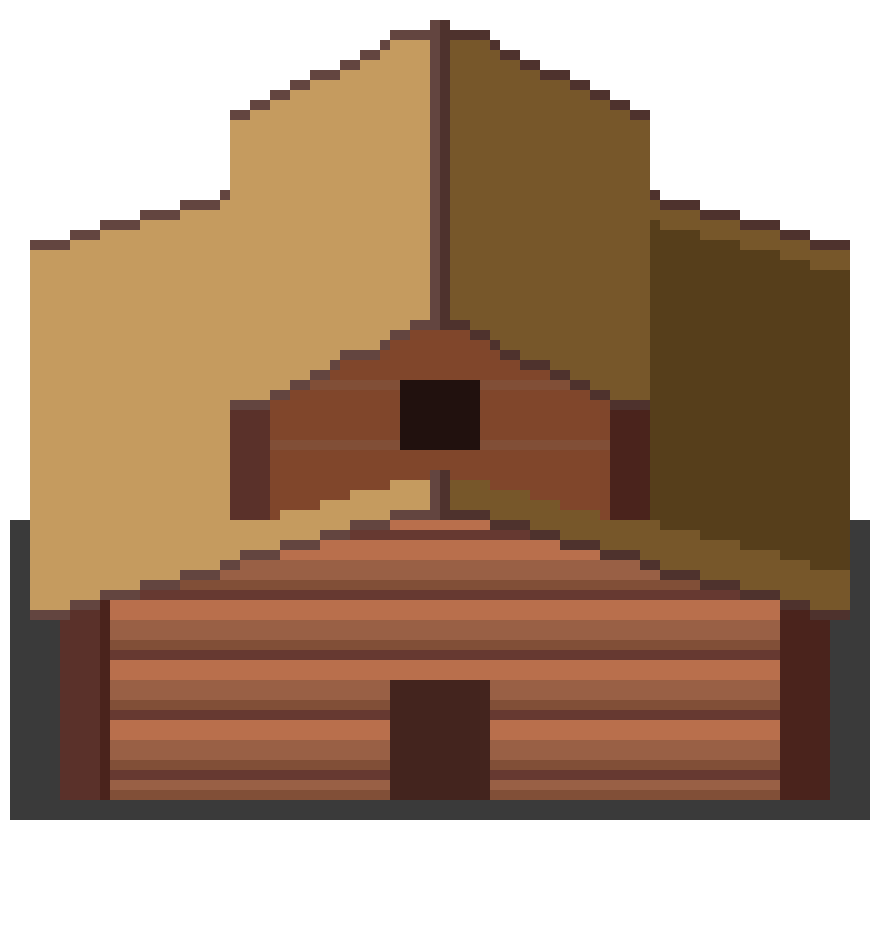
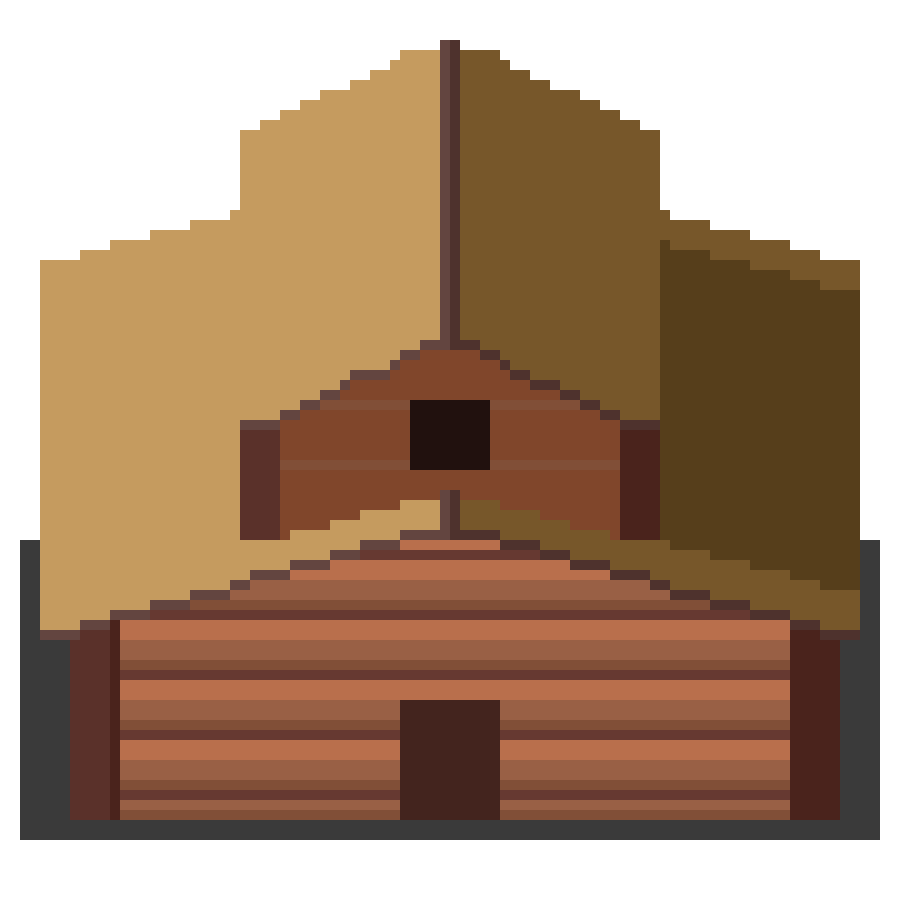
nvbnvn

diff --git a/src/GamePanel.java b/src/GamePanel.java
@@ -428,8 +428,17 @@ public class GamePanel extends JPanel {
                 Point worldPos = camera.toWorld(e.getX(), e.getY());
 
                 int bw = getBuildWidth(selectedBuilding);
-                int targetX = worldPos.x - (bw / 2);
-                int targetY = worldPos.y - (bw / 2);
+
+
+
+                int rawTargetX = worldPos.x - (bw / 2);
+                int rawTargetY = worldPos.y - (bw / 2);
+
+                int targetX = Math.round((float) rawTargetX / 10f) * 10;
+                int targetY = Math.round((float) rawTargetY / 10f) * 10;
+
+
+
                 Rectangle newArea = new Rectangle(targetX, targetY, bw, bw);
 
                 if (currentTool == ToolMode.BUILD) {
@@ -516,9 +525,9 @@ public class GamePanel extends JPanel {
 
     // --- HELPER UNTUK MENGAMBIL DATA DINAMIS BANGUNAN ---
     private int getBuildWidth(Building.BuildingType type) {
-        if (type == Building.BuildingType.SMALL_HOUSE) return 60;   // Ukuran untuk Small
-        if (type == Building.BuildingType.BIG_HOUSE) return 130;    // Ukuran untuk Big (dibuat megah)
-        return 90; // MEDIUM (Standar)
+        if (type == Building.BuildingType.SMALL_HOUSE) return 70;   // Ukuran untuk Small
+        if (type == Building.BuildingType.BIG_HOUSE) return 90;    // Ukuran untuk Big (dibuat megah)
+        return 70; // MEDIUM (Standar)
     }
 
     private int getBuildCapacity(Building.BuildingType type) {
@@ -943,6 +952,20 @@ public class GamePanel extends JPanel {
         if (gameplayBg != null) g2d.drawImage(gameplayBg, 0, 0, 3000, 3000, null);
         else { g2d.setColor(new Color(30, 50, 30)); g2d.fillRect(0, 0, 3000, 3000); }
 
+
+        //============GRID===========
+        if (currentTool == ToolMode.BUILD) {
+            g2d.setColor(new Color(255, 255, 255, 30)); // Warna putih sangat transparan (tipis)
+            g2d.setStroke(new BasicStroke(1f));
+            int gridSize = 10; // Jarak tiap kotak grid adalah 10 pixel
+
+            // Menggambar garis lurus vertikal & horizontal memenuhi map 3000x3000
+            for (int i = 0; i <= 3000; i += gridSize) {
+                g2d.drawLine(i, 0, i, 3000); // Garis Vertikal
+                g2d.drawLine(0, i, 3000, i); // Garis Horizontal
+            }
+        }
+
         // =======================================================
         // --- Y-SORTING (MENGATUR TUMPUKAN BERDASARKAN POSISI Y) ---
         // =======================================================
@@ -1012,8 +1035,12 @@ public class GamePanel extends JPanel {
             previewImg = getBuildImage(holdingBuilding.type);
         }
 
-        int pX = mouseX - (bw / 2);
-        int pY = mouseY - (bw / 2);
+        int rawX = mouseX - (bw / 2);
+        int rawY = mouseY - (bw / 2);
+
+        int pX = Math.round((float) rawX / 10f) * 10;
+        int pY = Math.round((float) rawY / 10f) * 10;
+
         Rectangle previewRect = new Rectangle(pX, pY, bw, bw);
 
         g2d.setComposite(AlphaComposite.getInstance(AlphaComposite.SRC_OVER, 0.5f));